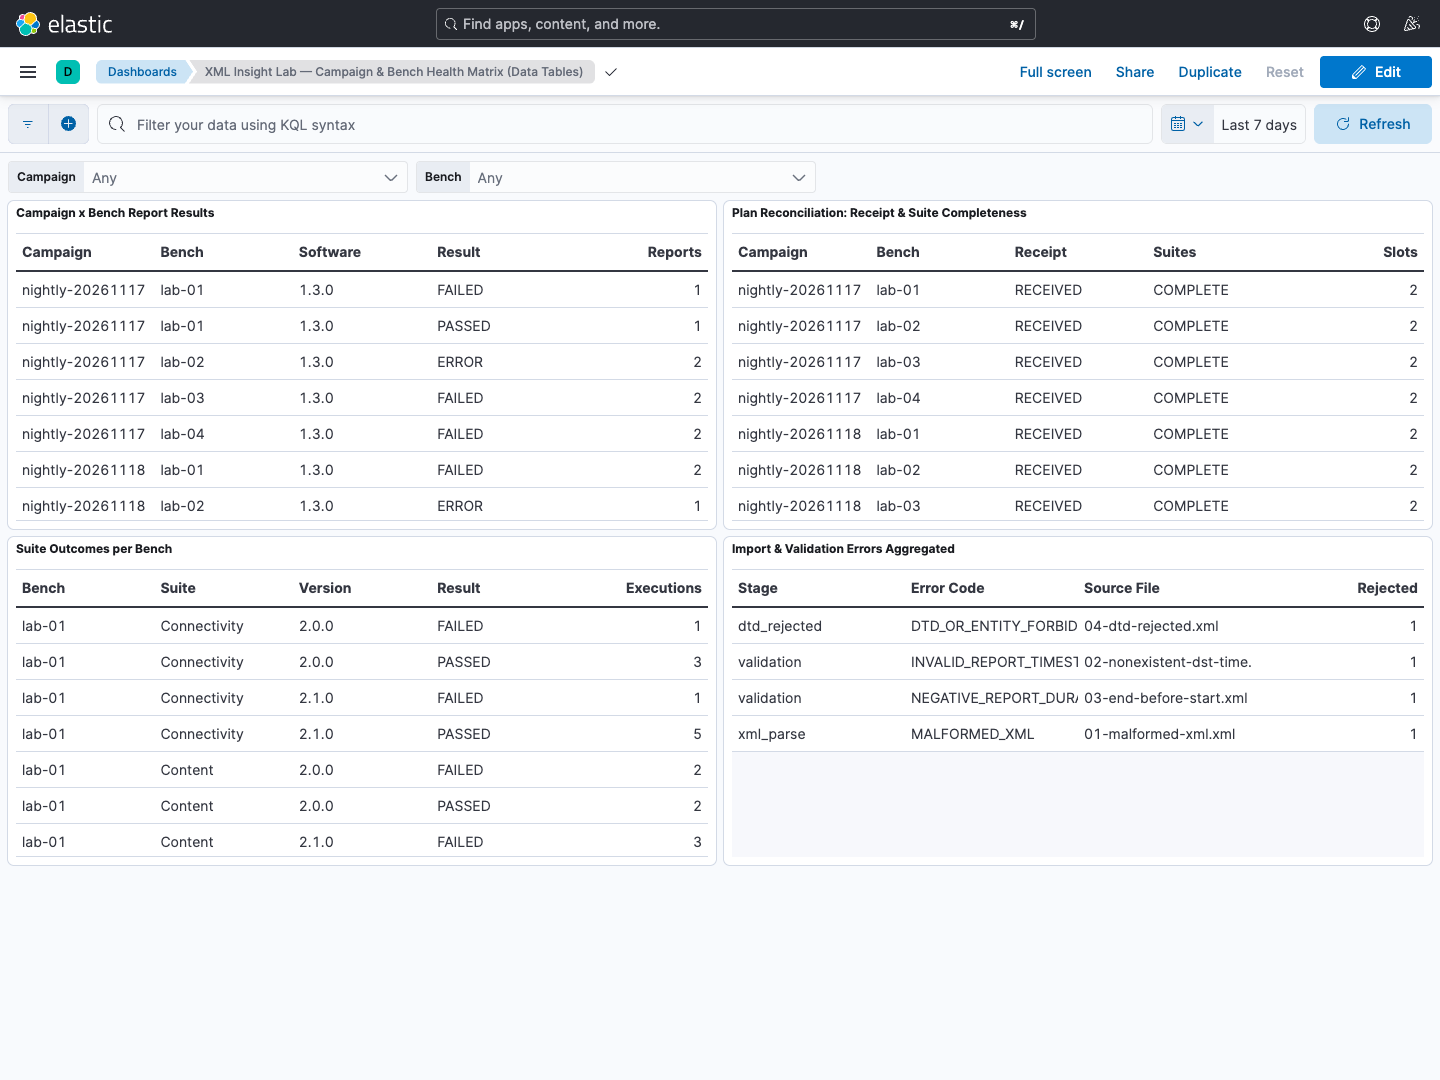
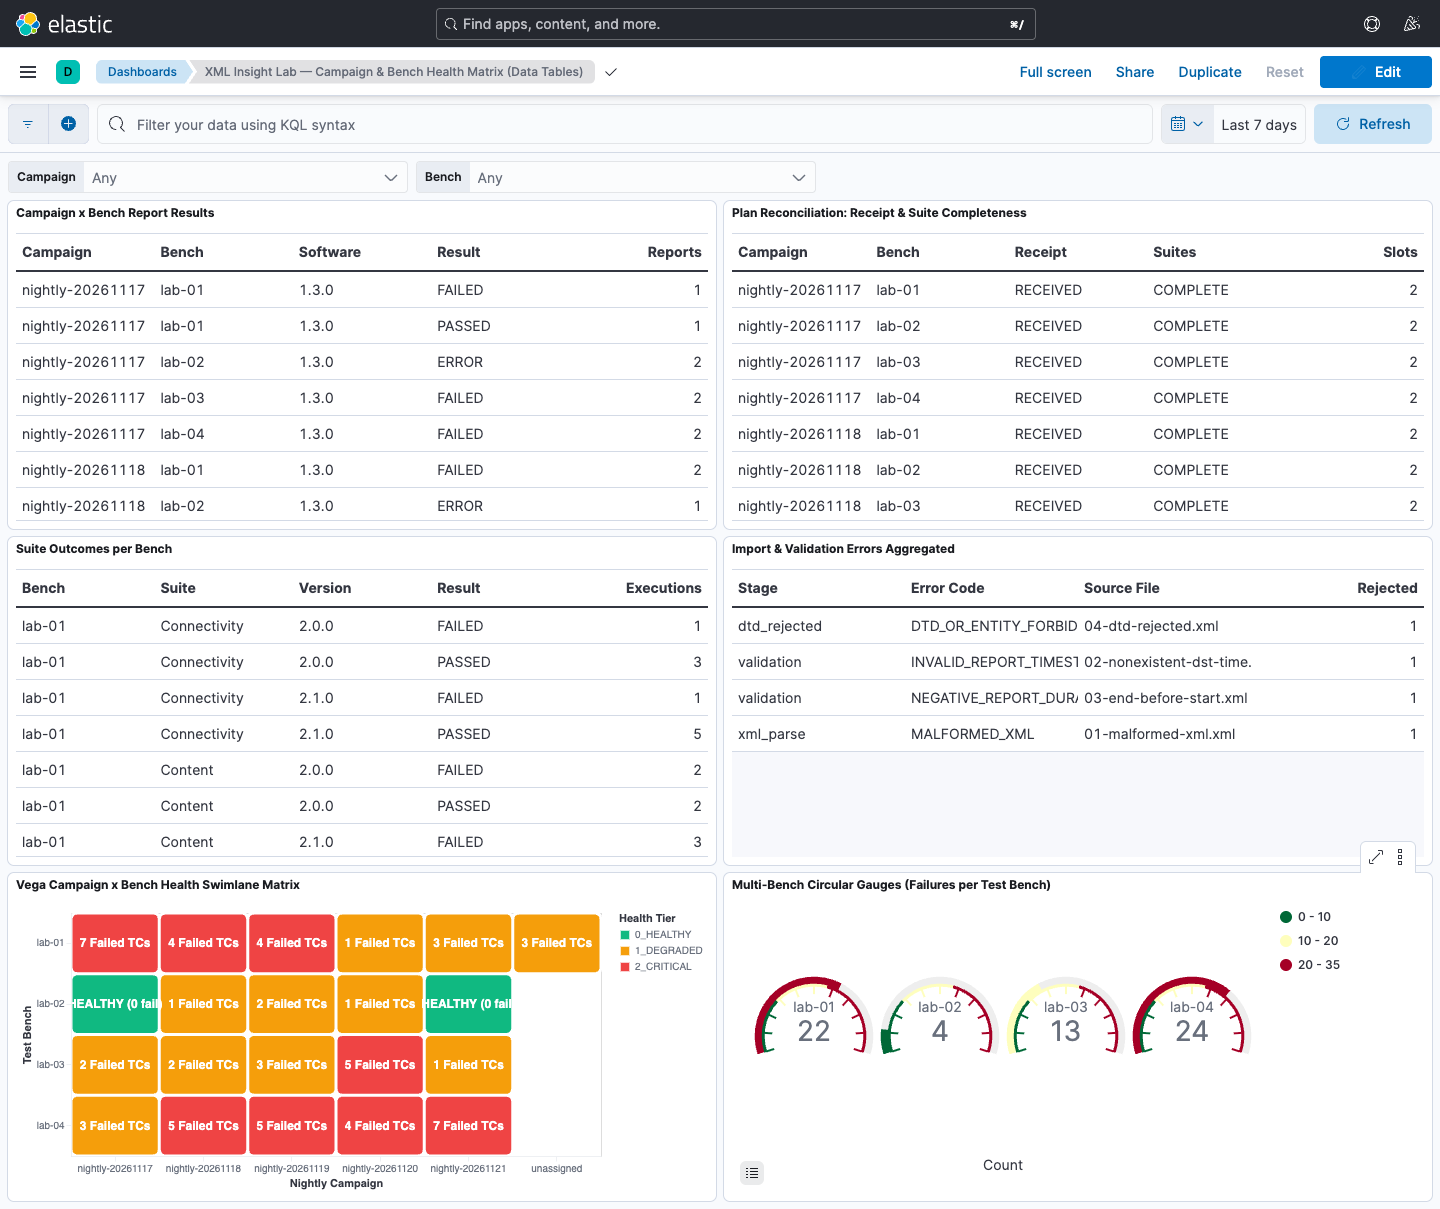
feat(kibana): add 13th Advanced Analytics dashboard (TSVB, Mosaic, Multi-Gauges, Vega Pareto/Swimlane/Parallel Coords)

diff --git a/docs/xml-insight-lab-showcase.md b/docs/xml-insight-lab-showcase.md
@@ -10,36 +10,61 @@ title: "XML Insight Lab — Project Showcase"
 
 ---
 
-## Kibana Visualization Capabilities Matrix (15 Distinct Visualization Types)
+## Kibana Visualization Capabilities Matrix (23 Distinct Visualization Paradigms)
 
-To demonstrate the full visual analytics power of Kibana `8.17.4`, our 12 provisioned dashboards combine **15 distinct visualization paradigms** across **Kibana Lens**, **Classic Aggregation Visualizations**, and **Vega Custom Grammar**:
+To demonstrate the full visual analytics power of Kibana `8.17.4`, our 13 provisioned dashboards combine **23 distinct visualization & dashboard paradigms** across **Kibana Lens**, **TSVB (Time Series Visual Builder)**, **Classic Aggregation Visualizations**, **Markdown Navigation Hubs**, and **Vega-Lite Custom Grammar**:
 
 | # | Kibana Visualization Type | Technical Type (`visualizationType` / `visState.type`) | Where It Is Used in Our Dashboards |
 | :--- | :--- | :--- | :--- |
 | **1** | **KPI Metric Card** | `lens` → `lnsMetric` | Top KPI summary rows across Dashboards `01`, `02`, `05`, `09`, `10`, `11`, `12` |
-| **2** | **Arc Gauge** | `lens` → `lnsGauge` (`shape: "arc"`) | `Complete Plan Slots (38 / 40)` on Dashboard `12` |
+| **2** | **Arc Gauge (Semicircular Dial)** | `lens` → `lnsGauge` (`shape: "arc"`) | `Complete Plan Slots (38 / 40)` on Dashboard `12` |
 | **3** | **Horizontal Bullet Gauge** | `lens` → `lnsGauge` (`shape: "horizontalBullet"`) | `Received Plan Reports (39 / 40)` on Dashboard `12` |
-| **4** | **Hierarchical Treemap** | `lens` → `lnsPie` (`shape: "treemap"`) | `Error Category × Rule ID` (Dashboards `04`, `12`) & `Owner × Root Cause` (Dashboard `09`) |
-| **5** | **Waffle Grid Chart** | `lens` → `lnsPie` (`shape: "waffle"`) | `Diagnostic Message Disposition` (Dashboards `09`, `12`) & `Failure Share by Software Version` (Dashboard `05`) |
-| **6** | **Multi-Ring Sunburst / Donut** | `lens` → `lnsPie` (`shape: "donut"`) | `Bench → Suite Failure Sunburst` (Dashboards `06`, `12`), `Disposition` & `Owner` shares |
-| **7** | **Pie Chart** | `lens` → `lnsPie` (`shape: "pie"`) | `Init Result Share` (`03`) & `Error Trend NEW/RECURRING/FIXED` (`04`) |
-| **8** | **Vertical Stacked Bar Chart** | `lens` → `lnsXY` (`bar_stacked`) | Bench results, Version × Suite, Root Cause × Severity across Dashboards `01`, `02`, `05`, `09` |
-| **9** | **Horizontal Bar Chart** | `lens` → `lnsXY` (`bar_horizontal`) | Top Extracted Error Codes (`02`, `04`), Data Quality Flags (`05`), Matched Rule IDs (`09`) |
-| **10** | **100% Percentage Stacked Bar** | `lens` → `lnsXY` (`bar_percentage_stacked` & `bar_horizontal_percentage_stacked`) | `100% TestCase Outcome Share by Bench` (`03`, `12`) & `by Suite` (`02`) |
-| **11** | **Dual-Axis Combo Chart (Bars + Line)** | `lens` → `lnsXY` (`bar` + `line` overlay) | `Total Executions (Bars) vs. Failures (Line) by Suite` (Dashboards `02`, `12`) |
-| **12** | **Stacked Area & Multi-Series Line Trend** | `lens` → `lnsXY` (`area_stacked`, `line`) | Nightly TestCase status trends (`01`), Error trends (`02`), and Bench failure trends (`03`) |
-| **13** | **Tag Cloud (Word Cloud)** | `visualization` → `tagcloud` | `Matched Error Rules` (Dashboards `04`, `12`) & `Classified Root Causes` (Dashboard `09`) |
-| **14** | **2D Color Heatmap Matrix** | `visualization` → `heatmap` | `Bench × Suite Failures` (`03`, `12`), `Bench × Error Category` (`03`), `Software Version × TestCase` (`05`) |
-| **15** | **Vega-Lite Custom Bubble Matrix & Aggregated Lens Data Table** | `visualization` → `vega` & `lens` → `lnsDatatable` | Live ES-queried `Bench × Error Category Proportional Bubble Matrix` (`03`, `12`) & 28 clean `lnsDatatable` panels across all dashboards |
+| **4** | **Full 360° Circle Ring Gauge** | `lens` → `lnsGauge` (`shape: "circle"`) | `Relevant Faults (62)` on Dashboard `13` |
+| **5** | **Multi-Bucket Circular Gauges (4-in-1 Panel)** | `visualization` → `gauge` (`group` split by `test_bench.id`) | `Failures per Test Bench (lab-01..lab-04)` on Dashboards `08`, `13` |
+| **6** | **Hierarchical Treemap** | `lens` → `lnsPie` (`shape: "treemap"`) | `Error Category × Rule ID` (Dashboards `04`, `12`) & `Owner × Root Cause` (Dashboard `09`) |
+| **7** | **Mosaic / Marimekko 2D Proportional Chart** | `lens` → `lnsPie` (`shape: "mosaic"`) | `Error Category × Bench Proportion` on Dashboard `13` |
+| **8** | **Waffle Grid Chart (10×10 Tile Grid)** | `lens` → `lnsPie` (`shape: "waffle"`) | `Diagnostic Message Disposition` (Dashboards `09`, `12`) & `Failure Share by Software Version` (Dashboard `05`) |
+| **9** | **Multi-Ring Sunburst (2-Level Concentric Donut)** | `lens` → `lnsPie` (`shape: "donut"`, 2 rings) | `Bench → Suite Failure Sunburst` (Dashboards `06`, `12`) |
+| **10** | **1-Ring Donut Chart** | `lens` → `lnsPie` (`shape: "donut"`) | `Disposition Share`, `Owner Share`, `Plan Completeness Share` |
+| **11** | **Classic Pie Chart** | `lens` → `lnsPie` (`shape: "pie"`) | `Init Result Share` (`03`) & `Error Trend NEW/RECURRING/FIXED` (`04`) |
+| **12** | **Vertical Stacked Bar Chart** | `lens` → `lnsXY` (`bar_stacked`) | Bench results, Version × Suite, Root Cause × Severity across Dashboards `01`, `02`, `05`, `09` |
+| **13** | **Horizontal Bar Chart** | `lens` → `lnsXY` (`bar_horizontal`) | Top Extracted Error Codes (`02`, `04`), Data Quality Flags (`05`), Matched Rule IDs (`09`) |
+| **14** | **100% Percentage Stacked Bar (Vertical & Horizontal)** | `lens` → `lnsXY` (`bar_percentage_stacked`, `bar_horizontal_percentage_stacked`) | `100% TestCase Outcome Share by Bench` (`03`, `12`) & `by Suite` (`02`) |
+| **15** | **100% Percentage Stacked Area Trend** | `lens` → `lnsXY` (`area_percentage_stacked`) | `Daily TestCase Outcome Share Trend (0–100%)` on Dashboard `13` |
+| **16** | **Dual-Axis Combo Chart (Bars + Line)** | `lens` → `lnsXY` (`bar` + `line` overlay) | `Total Executions (Bars) vs. Failures (Line) by Suite` (Dashboards `02`, `12`) |
+| **17** | **Stacked Area & Multi-Series Line Trend** | `lens` → `lnsXY` (`area_stacked`, `line`) | Nightly TestCase status trends (`01`), Error trends (`02`), and Bench failure trends (`03`) |
+| **18** | **TSVB Top-N Color Progress Bars & TSVB KPI** | `visualization` → `metrics` (`type: "top_n"` & `type: "metric"`) | `Failures by Root Cause Progress Bars` & `Suite Failures KPI` on Dashboard `13` |
+| **19** | **Tag Cloud (Word Cloud)** | `visualization` → `tagcloud` | `Matched Error Rules` (Dashboards `04`, `12`) & `Classified Root Causes` (Dashboard `09`) |
+| **20** | **2D Color Heatmap Matrix** | `visualization` → `heatmap` | `Bench × Suite Failures` (`03`, `12`), `Bench × Error Category` (`03`), `Software Version × TestCase` (`05`) |
+| **21** | **Vega-Lite Custom Proportional Bubble Matrix** | `visualization` → `vega` (`circle` + `text` layers) | `Bench × Error Category Proportional Bubble Matrix` (`03`, `12`) |
+| **22** | **Vega-Lite Pareto Curve, Swimlane Matrix & 5-D Parallel Coordinates** | `visualization` → `vega` (dual-axis Pareto, health swimlane & multi-stage fold flow) | `Top Error Rules Pareto Curve`, `Campaign × Bench Health Swimlane` (`08`, `13`) & `5-D Parallel Coordinates Flow` (`13`) |
+| **23** | **Interactive Markdown Navigation Hub & Aggregated Lens Data Tables** | `visualization` → `markdown` & `lens` → `lnsDatatable` | Clickable drilldown navigation hub (`13`) & 28 clean `lnsDatatable` panels across all dashboards |
 
 ---
 
-## Complete Dashboard Gallery (All 12 Dashboards)
+## Complete Dashboard Gallery (All 13 Dashboards)
 
-### Featured: 12. Kibana Visualization Capabilities Showcase (`xml-insight-viz-showcase`)
-Our flagship capability showcase displaying **12 distinct Kibana visualization types side by side on a single dashboard**: KPI Metric (`lnsMetric`), Arc Gauge (`lnsGauge`), Horizontal Bullet Gauge (`lnsGauge`), Hierarchical Treemap (`lnsPie`), Waffle Grid (`lnsPie`), Multi-Ring Sunburst (`lnsPie`), 100% Percentage Stacked Bar (`lnsXY`), Dual-Axis Bar+Line Combo Chart (`lnsXY`), Tag Cloud (`tagcloud`), 2D Color Heatmap (`heatmap`), Vega-Lite Custom Bubble Matrix (`vega`), and an aggregated Lens Data Table (`lnsDatatable`).
+### Featured I: 12. Kibana Visualization Capabilities Showcase (`xml-insight-viz-showcase`)
+Our first flagship capability showcase displaying **12 distinct Kibana visualization types side by side**: KPI Metric (`lnsMetric`), Arc Gauge (`lnsGauge`), Horizontal Bullet Gauge (`lnsGauge`), Hierarchical Treemap (`lnsPie`), Waffle Grid (`lnsPie`), Multi-Ring Sunburst (`lnsPie`), 100% Percentage Stacked Bar (`lnsXY`), Dual-Axis Bar+Line Combo Chart (`lnsXY`), Tag Cloud (`tagcloud`), 2D Color Heatmap (`heatmap`), Vega-Lite Custom Bubble Matrix (`vega`), and an aggregated Lens Data Table (`lnsDatatable`).
 
 ![12. Kibana Visualization Capabilities Showcase](assets/screenshots/12-kibana-viz-capabilities-showcase.png)
+
+---
+
+### Featured II: 13. Advanced Kibana Analytics — Vega, TSVB, Mosaic, Multi-Gauges & Parallel Flow (`xml-insight-advanced-analytics`)
+Our second flagship showcase demonstrating **10 additional advanced Kibana paradigms**:
+1. **Interactive Markdown Navigation Hub (`markdown`)** with clickable cross-dashboard links and 3-layer domain table
+2. **100% Percentage Stacked Area Trend (`area_percentage_stacked`)** of daily testcase outcome shares
+3. **Full 360° Circle Ring Gauge (`lnsGauge`, `shape: "circle"`)** for actionable `RELEVANT` faults
+4. **TSVB KPI Card (`metrics`, `type: "metric"`)** across the entire time range
+5. **Multi-Bench Circular Gauges (`gauge`)** rendering 4 color-coded gauges (`lab-01`..`lab-04`) in a single panel
+6. **TSVB Top-N Color Progress Bars (`metrics`, `type: "top_n"`)** ranking failures by `error_mapping.root_cause`
+7. **Mosaic / Marimekko 2D Proportional Chart (`lnsPie`, `shape: "mosaic"`)** showing `Error Category × Bench` proportions
+8. **Vega-Lite Dual-Axis Pareto Curve (`vega`)** combining rule failure bars with a cumulative `0–100%` line
+9. **Vega-Lite Campaign × Bench Health Swimlane Matrix (`vega`)** coloring every nightly campaign slot as `HEALTHY`, `DEGRADED`, or `CRITICAL`
+10. **Vega-Lite 5-Dimension Parallel Coordinates Flow (`vega`)** tracing failure paths across `1_Bench → 2_Version → 3_Suite → 4_Category → 5_Owner`
+
+![13. Advanced Kibana Analytics](assets/screenshots/13-advanced-kibana-analytics.png)
 
 ---
 

diff --git a/project/docs/kibana-discover-guide.md b/project/docs/kibana-discover-guide.md
@@ -1,6 +1,6 @@
 # Kibana Dashboards & Drilldown Guide
 
-XML Insight Lab provisions **12 Kibana dashboards** showcasing **15 distinct visualization paradigms** (`lnsDatatable`, `lnsMetric`, `lnsGauge` Arc & Bullet, `lnsPie` Treemap, Waffle Grid, Multi-Ring Sunburst, Donut & Pie, `lnsXY` Stacked Bar, Horizontal Bar, 100% Percentage Stacked Bar, Dual-Axis Combo Bar+Line, Stacked Area & Line, Classic `tagcloud`, Classic 2D Color `heatmap`, and custom `vega` Bubble Matrix) backed by **7 Data Views**. All dashboards focus strictly on **errors, test benches, suites, software versions, and root-cause analysis**.
+XML Insight Lab provisions **13 Kibana dashboards** showcasing **23 distinct visualization & dashboard paradigms** (`lnsDatatable`, `lnsMetric`, `lnsGauge` Arc, Horizontal Bullet & Full 360° Circle Ring, `lnsPie` Treemap, Mosaic/Marimekko, Waffle Grid, Multi-Ring Sunburst, Donut & Pie, `lnsXY` Stacked Bar, Horizontal Bar, 100% Percentage Stacked Bar, 100% Percentage Stacked Area, Dual-Axis Combo Bar+Line, Stacked Area & Line, TSVB `top_n` Progress Bars & `metric` KPI, Classic `tagcloud`, Classic 4-in-1 Multi-Bucket Circular `gauge`, Classic 2D Color `heatmap`, Interactive `markdown` Navigation Hub, and custom `vega` Bubble Matrix, Dual-Axis Pareto Curve, Campaign Swimlane Health Matrix & 5-Dimension Parallel Coordinates Flow) backed by **7 Data Views**. All dashboards focus strictly on **errors, test benches, suites, software versions, and root-cause analysis**.
 
 ## Provisioned Dashboards
 
@@ -15,9 +15,10 @@ XML Insight Lab provisions **12 Kibana dashboards** showcasing **15 distinct vis
 | 7 | **Software Version & Regression Lab** | `/app/dashboards#/view/xml-insight-version-regression` | Version KPIs, failures by Software Version × Suite & Error Category, `Version Health Summary` & `Version x Error Rule Breakdown` Lens tables, 2D Color Heatmap & Waffle Grid |
 | 8 | **Bench & Suite Failure Matrix** | `/app/dashboards#/view/xml-insight-bench-suite-matrix` | Aggregated Lens Data Tables (`lnsDatatable`) & breakdown per Bench × Suite × Error Category |
 | 9 | **TestCase & Error Matrix (Data Tables)** | `/app/dashboards#/view/xml-insight-testcase-matrix` | Aggregated `lnsDatatable` matrices for software regressions, error codes, retries, and message origins |
-| 10 | **Campaign & Bench Health Matrix (Data Tables)** | `/app/dashboards#/view/xml-insight-campaign-matrix` | Aggregated `lnsDatatable` matrices for campaign runs, plan completeness, suites, and import errors |
+| 10 | **Campaign & Bench Health Matrix (Data Tables)** | `/app/dashboards#/view/xml-insight-campaign-matrix` | Aggregated `lnsDatatable` matrices for campaign runs, plan completeness, suites, import errors, Vega Campaign Swimlane & 4-in-1 Multi-Bench Circular Gauges |
 | 11 | **Error Classification & Root Cause Analysis** | `/app/dashboards#/view/xml-insight-error-classification` | Config-driven error mapping categories, severities, dispositions, root causes, owners, message drilldown, Owner × Root Cause Treemap, Disposition Waffle & Root Cause Tag Cloud |
-| 12 | **Kibana Visualization Capabilities Showcase** | `/app/dashboards#/view/xml-insight-viz-showcase` | Master showcase displaying 12 distinct Kibana visualization paradigms side by side on a single dashboard |
+| 12 | **Kibana Visualization Capabilities Showcase** | `/app/dashboards#/view/xml-insight-viz-showcase` | Flagship showcase I: 12 distinct Kibana visualization paradigms side by side on a single dashboard |
+| 13 | **Advanced Kibana Analytics (Vega, TSVB, Mosaic, Multi-Gauges & Parallel Flow)** | `/app/dashboards#/view/xml-insight-advanced-analytics` | Flagship showcase II: Interactive Markdown Hub, 100% Stacked Area, 360° Circle Gauge, TSVB KPI & Top-N Progress Bars, 4-in-1 Multi-Gauges, Mosaic (Marimekko), Vega Pareto Curve, Vega Campaign Swimlane & Vega 5-D Parallel Coordinates |
 
 ## Recommended Analysis Path
 

diff --git a/project/README.md b/project/README.md
@@ -30,11 +30,15 @@ From `/Users/cc/Desktop/ELK-Stack/project`:
 | `./scripts/stop.sh` | Stop containers while preserving `esdata` volume |
 | `./scripts/reset.sh` | **Destructive:** remove containers, `esdata` volume, and `./data/` |
 
-## Dashboard Screenshots (All 12 Dashboards & 15 Visualization Types)
+## Dashboard Screenshots (All 13 Dashboards & 23 Visualization Paradigms)
 
-### Featured: 12. Kibana Visualization Capabilities Showcase
+### Featured I: 12. Kibana Visualization Capabilities Showcase
 Demonstrates 12 distinct Kibana visualization types side by side: KPI Metric (`lnsMetric`), Arc Gauge (`lnsGauge`), Horizontal Bullet Gauge (`lnsGauge`), Hierarchical Treemap (`lnsPie`), Waffle Grid (`lnsPie`), Multi-Ring Sunburst (`lnsPie`), 100% Percentage Stacked Bar (`lnsXY`), Dual-Axis Bar+Line Combo Chart (`lnsXY`), Tag Cloud (`tagcloud`), 2D Color Heatmap (`heatmap`), Vega-Lite Custom Bubble Matrix (`vega`), and Aggregated Lens Data Table (`lnsDatatable`).
 ![12. Kibana Visualization Capabilities Showcase](docs/assets/screenshots/12-kibana-viz-capabilities-showcase.png)
+
+### Featured II: 13. Advanced Kibana Analytics (Vega, TSVB, Mosaic, Multi-Gauges & Parallel Flow)
+Demonstrates 10 additional advanced Kibana paradigms: Interactive Markdown Navigation Hub (`markdown`), 100% Percentage Stacked Area Trend (`area_percentage_stacked`), Full 360° Circle Ring Gauge (`lnsGauge`), TSVB KPI (`metrics`), Multi-Bench 4-in-1 Circular Gauges (`gauge`), TSVB Top-N Color Progress Bars (`top_n`), Mosaic / Marimekko 2D Proportional Chart (`mosaic`), Vega-Lite Dual-Axis Pareto Curve (`vega`), Vega-Lite Campaign × Bench Health Swimlane Matrix (`vega`), and Vega-Lite 5-Dimension Parallel Coordinates Flow (`vega`).
+![13. Advanced Kibana Analytics](docs/assets/screenshots/13-advanced-kibana-analytics.png)
 
 ### 01. Nightly Overview
 ![01. Nightly Overview](docs/assets/screenshots/01-nightly-overview.png)
